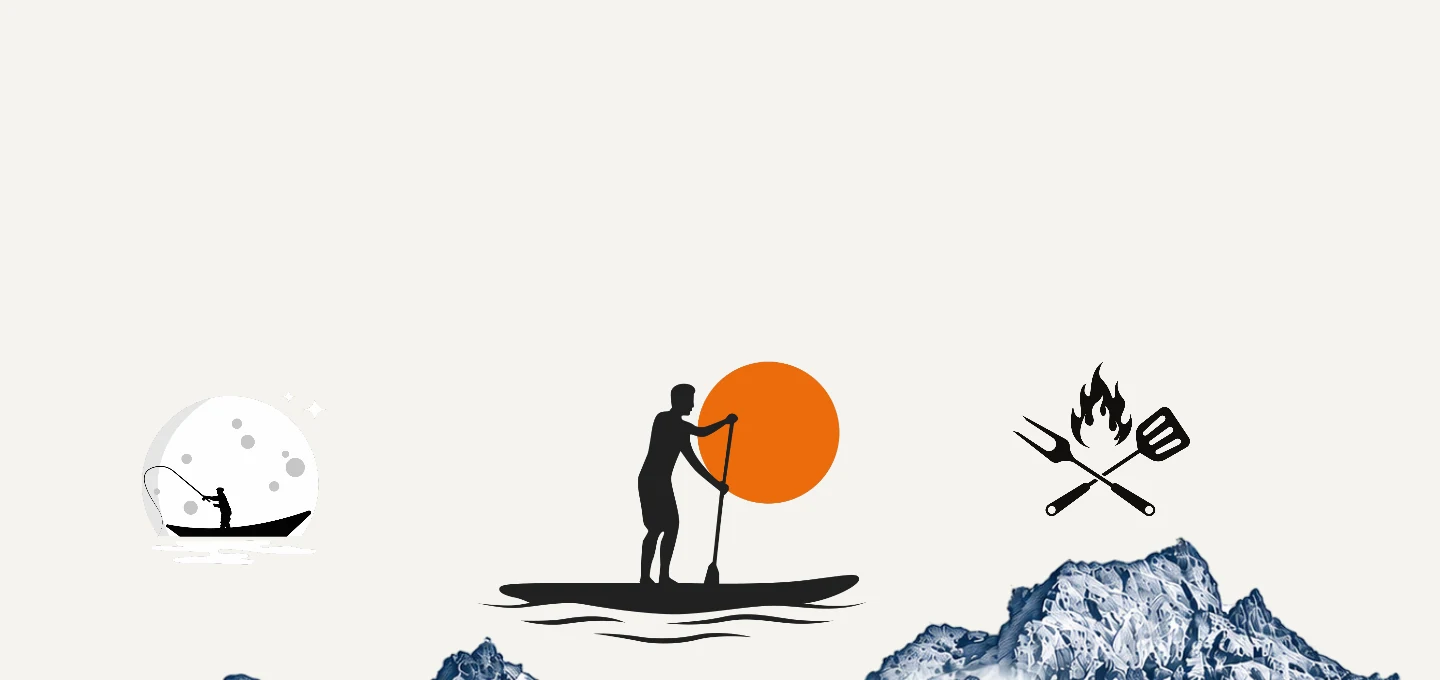
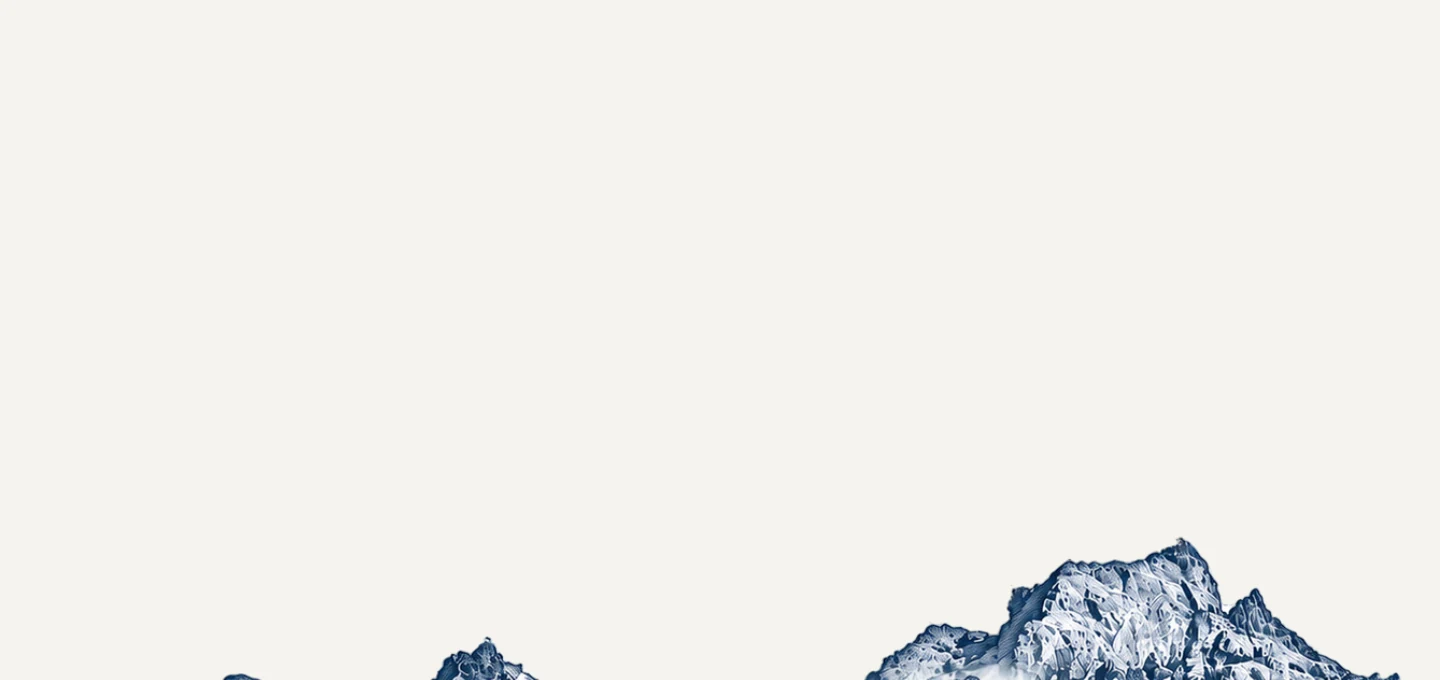
行程頁：拿掉烤肉插圖；月亮夜釣、SUP 滑到時慢慢浮現（Ambre 11/18）
Claude-Session: https://claude.ai/code/session_01CnUJQd6g4KuqDDoCxycPDg

diff --git a/scripts/canvas_pages.py b/scripts/canvas_pages.py
@@ -147,6 +147,11 @@ PAGES = {
             "LB6ZkxmTckCCLlBy": ("dsd", None),
             "LBZ9wlyDbmv99gFr": ("fun", None),
         },
+        # 插圖：月亮夜釣、SUP（連同後面的太陽）滑到時慢慢浮現（11/18 Ambre）；烤肉插圖拿掉（11/18 Ambre）
+        "illustrations": {
+            "LBZQVMYsBZZF9mqP": {"code": "T1", "file": "trips_moon_fishing", "name": "月亮夜釣", "anim": {"dx": 0, "dy": 12, "dur": 1.8, "delay": 0, "float": 0}},
+            "LB8f2js7y9qclGlr": {"code": "T2", "file": "trips_sup_sun", "name": "SUP 立槳與太陽", "with": ["LBT3trKSS4gn3Z1n"], "anim": {"dx": 0, "dy": 12, "dur": 1.8, "delay": 0, "float": 0}},
+        },
         "sections": [
             ("open", "開場", 0, 1330),
             ("includes", "每個套裝皆含", 1330, 1560),
@@ -181,7 +186,7 @@ PAGES = {
             # 島上加購：價格從 prices.json 讀
             "LBs4ySQ7DzrGbxvL": {"fill": True, "text": "潮間帶導覽　{item:tidal}\n夜釣　{item:fishing}\n藍洞秘境探險　{item:bluecave}"},
             "LBQjBtrl9LjzlkRT": {"fill": True, "text": "SUP 立槳（單人板）　{item:sup1}\nSUP 立槳（雙人板）　{item:sup2}\n玻璃船　{item:glassboat}"},
-            # 烤肉吃到飽、招牌桶仔雞：Sheet 沒有（11/16 Ambre 拿掉餐食）→ 先不放；電動自行車 Sheet 只有單人 600（ebike），
+            # 烤肉吃到飽、招牌桶仔雞：Sheet 沒有（11/16 Ambre 拿掉餐食）→ 不放（11/18 Ambre 確認，烤肉插圖也拿掉）；電動自行車 Sheet 只有單人 600（ebike），
             #   Canva「600／天起」的「起」是指雙人 800，Sheet 沒有 → 拿掉「起」（都列在待 Ambre 決定）
             "LBRvm9XldnhzNjsQ": {"fill": True, "text": "電動自行車　{item:ebike}／天"},
         },

diff --git a/scripts/build-canvas-data.py b/scripts/build-canvas-data.py
@@ -93,17 +93,21 @@ def cut_illustrations(cfg, allel, illus, src, key):
     out = []
     imgdir = os.path.join(ROOT, "src", "assets", "img", key)
     os.makedirs(imgdir, exist_ok=True)
-    for eid, spec in illus.items():
-        e = allel[eid]
+    def corners(e):
         cx, cy = e["left"] + e["width"] / 2, e["top"] + e["height"] / 2
         a = math.radians(e.get("rotation", 0))
         pts = []
         for dx, dy in [(-1, -1), (1, -1), (1, 1), (-1, 1)]:
             x, y = dx * e["width"] / 2, dy * e["height"] / 2
             pts.append((cx + x * math.cos(a) - y * math.sin(a), cy + x * math.sin(a) + y * math.cos(a)))
+        return pts
+
+    for eid, spec in illus.items():
         m = Image.new("L", (Ww, Hh), 0)
         d = ImageDraw.Draw(m)
-        d.polygon(pts, fill=255)
+        # with＝跟這張插圖疊在一起、要一起動的其他元素（例如 SUP 後面的太陽），範圍合併成一張
+        for xid in [eid] + spec.get("with", []):
+            d.polygon(corners(allel[xid]), fill=255)
         for x0, y0, x1, y1 in cfg.get("illusClip", {}).get(eid, []):
             d.rectangle((x0, y0, x1, y1), fill=0)
         layer = Image.new("RGBA", (Ww, Hh), (0, 0, 0, 0))

diff --git a/docs/行程頁進度.md b/docs/行程頁進度.md
@@ -8,14 +8,14 @@
 - 元素座標存在 `docs/trips-canva-elements.json`（只讀一次整頁；頁面備註沒有動畫規格，只有待確認事項）
 - 去字底圖：工作檔刪掉文字、按鈕後匯出；原頁另外匯出當比對圖（`docs/compare/trips/_canva原頁_全頁.webp`）
 - 網頁：底圖分段切 WebP（`src/assets/img/trips/`），文字按鈕用網頁文字照 Canva 座標放回
-- 插圖（月亮夜釣、SUP 太陽、烤肉）留在底圖、不做動畫（頁面備註沒寫，列進待 Ambre 決定）
+- 插圖：月亮夜釣、SUP（連同後面的太陽）滑到時慢慢浮現（11/18 Ambre；往上 12px、1.8 秒淡入，同住宿頁房子）；烤肉插圖拿掉（11/18 Ambre）。另一份工作檔只留插圖、透明背景匯出 → 切成 `trips_moon_fishing`、`trips_sup_sun`
 - 頁首、頁尾：用首頁（home.json）那一份（canvas_pages.py 的 shared）；選單「行程」顯示為目前頁；頁尾公司資訊讀 site.json；選單沒有「聯絡」
 - 價格一律從 `prices.json` 讀：套裝 pkg-snorkel／pkg-dsd／pkg-fun（雙人每人價）、升等 up-*、單人報名加價＝single − price（新增 `{extra:代號}`）、活動 tidal、fishing、bluecave、sup1、sup2、glassboat、電動自行車 ebike；預訂按鈕連 `/booking/?item=pkg-*`
 - 全站規則：字級 ×0.9、段落左右對齊、預訂按鈕右緣對齊同一張卡片說明文字的實際最右邊
 
 ## 工作檔與指令
-- Canva 工作檔 **DAHbMg2hxSY**（copy-design 自 DAHao-HiYfI 第 6 頁）：已刪掉所有文字、按鈕（頁首預訂、三張卡的預訂、頁尾兩顆）→ 存檔，現在是「去字底圖」版。要重新拿底圖：export-design PNG 寬 1440，curl 下載。
-- 產生器：`python3 scripts/build-canvas-data.py trips <去字底圖.png>`（產生 `src/_data/trips.json`＋切圖；設定改 `scripts/canvas_pages.py` 的 trips）
+- Canva 工作檔 **DAHbMg2hxSY**（copy-design 自 DAHao-HiYfI 第 6 頁）：已刪掉所有文字、按鈕（頁首預訂、三張卡的預訂、頁尾兩顆）、三張插圖（月亮夜釣、太陽、SUP）、烤肉插圖 → 存檔，現在是「去字底圖」版。**DAHbMvhf8rg**（只留月亮夜釣、太陽、SUP）。要重新拿圖：export-design PNG 寬 1440（插圖那份加 transparent_background），curl 下載。
+- 產生器：`python3 scripts/build-canvas-data.py trips <去字底圖.png> <插圖透明.png>`（產生 `src/_data/trips.json`＋切圖；設定改 `scripts/canvas_pages.py` 的 trips）
 - 截圖：`node scripts/canvas-shot.js /trips/ out.png`
 - 比對圖：`python3 scripts/canvas-compare.py trips <Canva原頁.png> <截圖.png> <段落代號> docs/compare/trips/xx.png`
 - 頁面：`src/pages/trips.njk`（`canvasKey: trips`）
@@ -27,22 +27,29 @@
 | 每個套裝皆含 | 完成 | 02_每個套裝皆含.png | 4 欄文字照 Canva |
 | 三張套裝卡 | 完成 | 03_三張套裝卡.png | 價格 pkg-*；升等 up-*；單人報名加價＝單人價 − 雙人每人價；預訂 → ?item=pkg-*，按鈕右緣對齊說明文字最右邊（比 Canva 往右約 144px） |
 | 3 天怎麼過 | 完成 | 04_3天怎麼過.png | 照 Canva（行程範例） |
-| 島上加購 | 完成 | 05_島上加購.png | 價格從 prices.json 讀；烤肉、桶仔雞先不放；電動自行車寫「600／天」 |
+| 島上加購 | 完成 | 05_島上加購.png | 價格從 prices.json 讀；烤肉、桶仔雞不放、烤肉插圖拿掉；電動自行車寫「600／天」 |
+| 插圖動畫 | 完成 | 07_插圖_慢慢浮現.png | 月亮夜釣、SUP 捲到後 0.1／0.4／0.8／1.6／3 秒；靜態位置跟 Canva 相同（像素差平均 1 左右） |
 | 頁尾 | 完成 | 06_頁尾.png | 共用首頁頁尾（Canva 行程頁頁尾＝首頁往上 3500px，x 相同）；頁尾按鈕是 11/18 全站新版（較小、橘色） |
 
 像素量測（Canva 原頁 vs 網站截圖，每個文字和按鈕對去字底圖的差異範圍）：左、上位置差 0–2 px；文字寬度因字級 ×0.9 變窄（規則如此）；Fun Dive 卡升等那段 Canva 3 行、網站 2 行。預訂按鈕照規則往右移。首頁、課程頁、住宿頁重建後截圖跟改之前逐像素相同。npm test 32 題一致。Sheet 01_價目表 41 項逐項核對 prices.json 全部一致（不用改）。
 
 ## 待 Ambre 決定
-- 三張卡的預訂按鈕：照全站規則「按鈕右緣對齊文字最右邊」移到卡片右側；Canva 是靠左。想維持 Canva 靠左跟我說。
-- 烤肉吃到飽 350、招牌桶仔雞 900／隻：Sheet 沒有（11/16 拿掉餐食）→ 網站先不放。右邊那欄只剩電動自行車；烤肉插圖還在，要不要換掉或拿掉？
-- 電動自行車：Sheet 只有 ebike 600（單人）；Canva 備註寫雙人 800 → 先不放 800，網站寫「600／天」（拿掉「起」）。要放雙人價要先在 Sheet 加一列。
-- 浮潛行程（snorkel 400）Sheet 有、Canva 加購沒列 → 照 Canva 沒放。
-- 體驗套裝升等：Canva 備註說中文＋500、英文＋800 → 照 Sheet up-dsd 寫＋500。
-- 套裝是不是只有夏季賣（標題寫「夏日」）、3 天行程是範例、玻璃船英文寫 Submarine → 照 Canva 放，待確認。
-- 插圖（月亮夜釣、SUP 太陽、烤肉）要不要加「滑到慢慢浮現」（住宿頁房子那種）？頁面備註沒寫，先沒做。
+- 套裝是不是只有夏季賣（標題寫「夏日」）→ 照 Canva 放，Ambre 11/18 還沒回答。
+- 電動自行車雙人 800：Sheet 只有 ebike 600（單人），網站寫「600／天」。11/18 已向 Ambre 說明，要放雙人價要先在 Sheet 加一列。
 - 頁尾信箱、LINE、Instagram（待填）→ 11/17 Ambre：等所有頁面好了一起補。
+
+## Ambre 已決定（11/18）
+- 三張卡預訂按鈕維持靠右（對齊文字最右邊），不改回靠左。
+- 所有價格以 Sheet「綠芙網站_價目與計價總表（主檔）」為準；體驗套裝升等＋500 可以。
+- 3 天行程範例不用等業主確認。
+- 烤肉吃到飽、桶仔雞不放，烤肉插圖拿掉。
+- 浮潛行程不用加進島上加購。
+- 月亮夜釣、SUP 滑到時慢慢浮現。
+- 玻璃船英文 Submarine 只是 Canva 頁面備註（原始資料的英文版），網頁上沒有英文；英文版之後才做，現在不處理。
+- 住宿頁「入住前請先看」加底線動畫：不用改，跳過。
 
 ## 紀錄
 - 11/18（排程接力 1）：從 main 開 trips-redo。Sheet 01_價目表 41 項逐項核對 prices.json，全部一致。建立工作檔 DAHbMg2hxSY，讀一次座標存 docs/trips-canva-elements.json，匯出原頁與去字底圖。canvas_pages.py 加 trips、版型 cvMap 加 trips、trips.njk 改用 canvas-page 版型；fillPrices 加 {extra:代號}（單人報名加價，其他頁輸出不變）。首頁、課程、住宿頁重建後截圖逐像素相同。
 - 11/18（排程接力 1）：開場、每個套裝皆含、三張套裝卡、3 天怎麼過、島上加購、頁尾 六段完成（比對圖 docs/compare/trips/01–06），npm test 32 題一致。錯字：「Fun Dive都可以」→「Fun Dive 都可以」。沒有黃色設計標籤。
 - 11/18（排程接力 1）：已傳比對圖給 Ambre（6 張，SendUserFile＋推播）；Project 狀態檔第 5 節 W03、第 8 節已更新。等她逐段回覆，說 OK 才合併 main。接著觸發接力 2（關於與聯絡頁）。
+- 11/18 Ambre 回饋（見上「Ambre 已決定」）。處理：底圖工作檔 DAHbMg2hxSY 再刪月亮夜釣、太陽、SUP、烤肉插圖重新匯出；新工作檔 DAHbMvhf8rg 只留月亮夜釣、太陽、SUP 透明匯出；build-canvas-data.py 插圖設定加 with（疊在一起的元素合成一張一起動，其他頁輸出不變）。比對圖 05 更新、新增 07（插圖動畫）。首頁、課程、住宿頁截圖逐像素相同；npm test 32 題一致。
